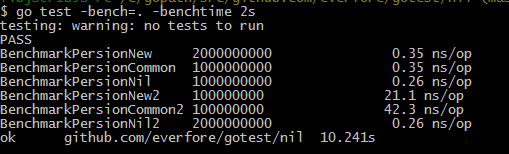
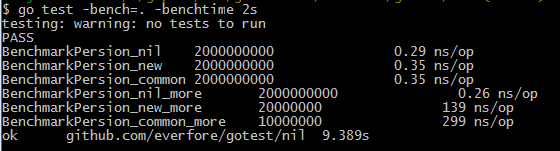
test

diff --git a/nil/nil_test.go b/nil/nil_test.go
@@ -7,41 +7,40 @@ import (
 type PersonNil struct {
 }
 
-func BenchmarkPersionNew(b *testing.B) {
+func BenchmarkPersion_nil(b *testing.B) {
+	for i := 0; i < b.N; i++ {
+		_ = (*PersonNil)(nil)
+	}
+}
+func BenchmarkPersion_new(b *testing.B) {
 	for i := 0; i < b.N; i++ {
 		_ = new(PersonNil)
 	}
 }
-func BenchmarkPersionCommon(b *testing.B) {
+func BenchmarkPersion_common(b *testing.B) {
 	for i := 0; i < b.N; i++ {
 		_ = &PersonNil{}
 	}
 }
 
-func BenchmarkPersionNil(b *testing.B) {
+type PersonNil2 struct {
+	name   string
+	friend [1000]string
+}
+
+func BenchmarkPersion_nil_more(b *testing.B) {
 	for i := 0; i < b.N; i++ {
-		_ = (*PersonNil)(nil)
+		_ = (*PersonNil2)(nil)
 	}
 }
 
-type PersonNil2 struct {
-	name   string
-	friend [101]string
-}
-
-func BenchmarkPersionNew2(b *testing.B) {
+func BenchmarkPersion_new_more(b *testing.B) {
 	for i := 0; i < b.N; i++ {
 		_ = new(PersonNil2)
 	}
 }
-func BenchmarkPersionCommon2(b *testing.B) {
+func BenchmarkPersion_common_more(b *testing.B) {
 	for i := 0; i < b.N; i++ {
 		_ = &PersonNil2{}
-	}
-}
-
-func BenchmarkPersionNil2(b *testing.B) {
-	for i := 0; i < b.N; i++ {
-		_ = (*PersonNil2)(nil)
 	}
 }
